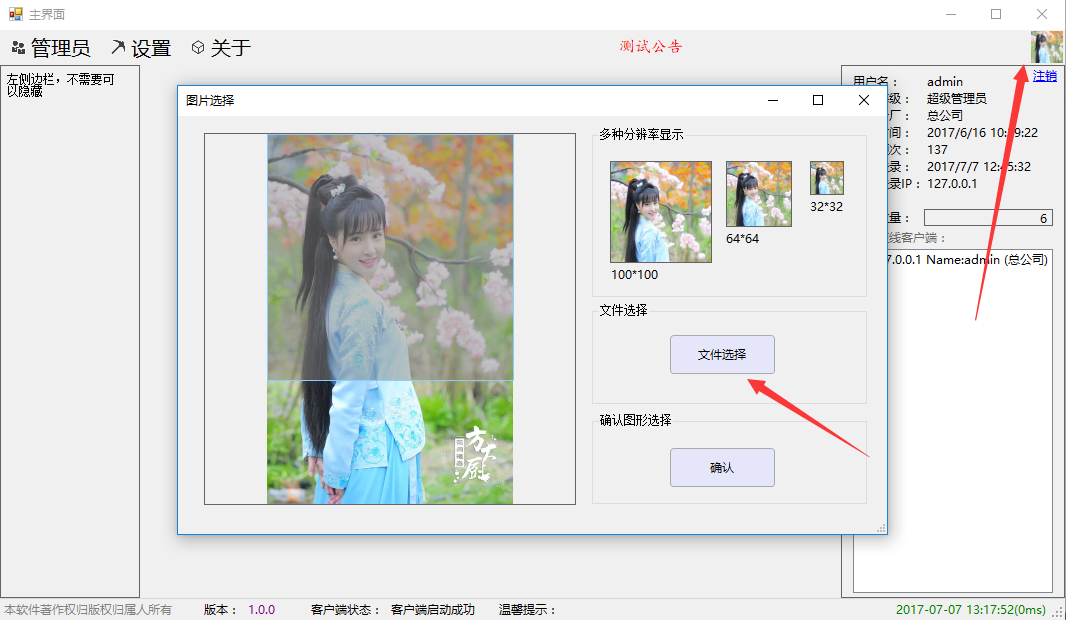
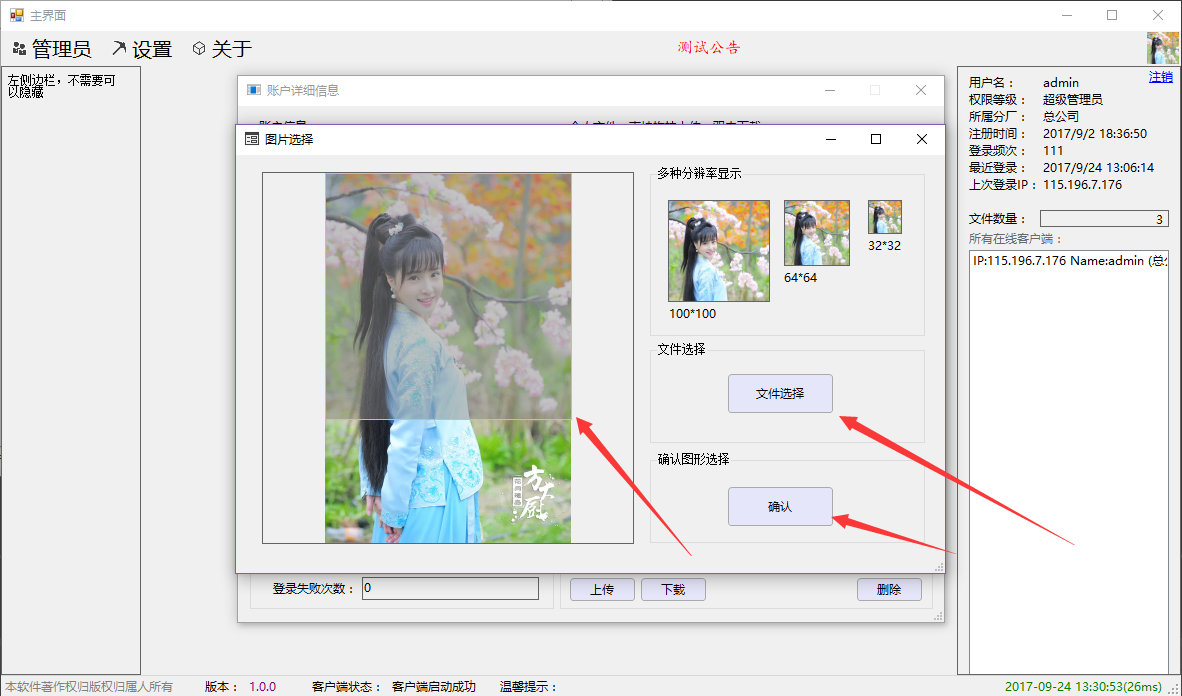
更新主ReadMe，和软件的部分截图，v1.4.7

diff --git a/README.md b/README.md
@@ -1,14 +1,16 @@
 # C-S架构的服务器客户端模版
 
 ## Summary
-一个基于中小型提炼的C-S开发框架，在大多数的一对多的系统设计中会包含一些常用的重复的功能代码，比如网络通信机制，客户端版本控制，账户控制管理，密码修改，公告管理等等，大多数的中小型系统只是需要到简单的权限管理即可。
+一个基于中小型提炼的C-S开发框架，在大多数的一对多的系统设计中会包含一些常用的重复的功能代码，比如网络通信机制，客户端版本控制，账户控制管理，密码修改，公告管理，服务器配置，各种常用窗口等等，而且大多数的中小型系统只是需要到简单的权限管理即可。
+
 <br />
-本框架包含了三种客户端的模式，第一种常用的winform客户端，第二种为wpf客户端，第三种为asp.net mvc模式，也就是说你可以在winform和wpf客户端上选择一种模式，然后您的系统提供一些功能到asp.net上去，所有的账户模型都是统一的，这样方便一些只需要查看报表用户的人员不需要在部署客户端了。当然，客户端可以提供更加强大的功能。
+本框架包含了三种客户端的模式，第一种常用的winform客户端，第二种为wpf客户端，第三种为asp.net mvc模式，也就是说你可以在winform和wpf客户端上选择一种模式，然后您的系统提供一些功能（诸如报表查看）到asp.net上去，所有的账户模型都是统一的，这样方便一些只需要查看报表用户的人员不需要在部署客户端了。当然，客户端可以提供更加强大的功能。
 
 
 ## Features included
 <ul>
 <li>一个简单的账户管理功能，包含了账户注册，密码修改，客户端登录账户记录,账户注销,账户包含了一些基础信息</li>
+<li>一个简单的客户端登录控制功能，可以手动控制允许哪些客户端进行登录，只需要打开窗口配置一下即可</li>
 <li>一个简单的公告管理功能，允许有权限的账户针对公告进行更改，未来将支持公告更改记录</li>
 <li>一个简单的意见反馈功能，允许客户端反馈软件的意见或是BUG，方便开发人员更改</li>
 <li>一个简单的右下角消息框弹出功能，在公告更改和新发消息的时候可以自由控制</li>
@@ -23,6 +25,7 @@
 <li>提供了一个文件共享平台，大多数的软件系统都会共享一些特殊的文件资料，允许方便的下载，管理，上传</li>
 <li>提供所有账户自身的头像功能，未来还将支持多账户同步</li>
 <li>提供一个简单的开发中心，允许客户端实时监视服务器程序的对象内存使用情况</li>
+<li>客户端提供了一个统一的配置中心，可以用来配置服务器各种参数。</li>
 </ul>
 <ul>
 <li>Wpf版本的客户端程序额外提供了一个主题颜色设置的功能</li>
@@ -62,6 +65,8 @@
 <li>多客户端之间需要进行复杂数据交互的系统</li>
 </ul>
 
+二次开发时需要特别注意的是在项目 **CommonLibrary** -> **ProtocolSupport** -> **CommonProtocol.cs** 中的参数需要根据实际全部修改，注意事项已在文件里说明。
+
 ## Contribute
 如果你也喜欢这个项目，可以点击右上角的star或是fork，如果发现了一些BUG或是需要更改的地方也可以直接发起pull request，当然也可以联系技术支持QQ群来联系我本人，或是发送邮件，具体参考下面。
 
@@ -79,29 +84,27 @@
 </ul>
 
 
-## HslCommunication.dll
-<p>该组件功能提供了一些基础功能类和整个C-S项目的核心网络的支持，除此之外，该组件提供了访问三菱PLC和西门子PLC的数据功能。以下就是该库的子功能说明，您也可以只使用其中一部分的功能类，比如日志功能！</p>
+## About HslCommunication.dll
+<p>本C-S项目的核心组件，该组件功能提供了一些基础功能类和整个C-S项目的网络支持，除此之外，该组件提供了访问三菱PLC和西门子PLC的数据功能。
+以下就是该库的部分子功能说明，您也可以只使用其中一部分的功能类，比如日志功能！完整的功能手册将在近期放出，方便理解整个系统的底层机制。</p>
 
 <ul>
-<li><a href="https://github.com/dathlin/C-S-/blob/master/files/LogReadme.md">简单强大的日志功能使用</a></li>
+<li><a href="https://github.com/dathlin/C-S-/blob/master/files/LogReadme.md">简单强大的日志记录功能使用</a></li>
+<li><a href="https://github.com/dathlin/C-S-/blob/master/files/MelsecReadMe.md">三菱PLC数据读写介绍</a></li>
+<li><a href="https://github.com/dathlin/C-S-/blob/master/files/SiemensReadMe.md">西门子PLC数据读写手册</a></li>
 </ul>
 
 
 <p>本组件支持常规的整数的数据读写，支持位数据读写，也支持字符串数据读写，包括中文，具体使用方式请参照下述手册，目前已经完成了一个三菱PLC高并发访问的类，具体交流可以通过以下方式联系我</p>
 
-<p>如果要使用本组件访问PLC，需要引用命名空间，如下</p>
+<p>如果要使用本组件的功能，需要引用命名空间，如下</p>
 <pre>
 <code>
-using HslCommunication.Profinet;
+using HslCommunication;
 </code>
 </pre>
 
-三菱详细手册：<a href="https://github.com/dathlin/C-S-/blob/master/MelsecReadMe.md">三菱PLC数据读写手册</a>
-
-西门子详细手册：<a href="https://github.com/dathlin/C-S-/blob/master/SiemensReadMe.md">西门子PLC数据读写手册</a>
-
 下载地址：<a href="https://github.com/dathlin/C-S-/raw/master/Public/HslCommunication.dll">单独的组件dll文件</a>
-
 文档地址：<a href="https://github.com/dathlin/C-S-/raw/master/Public/HslCommunication.xml">单独的组件xml注释文件</a>
 
 
@@ -221,9 +224,13 @@ using HslCommunication.Profinet;
 
 ![](https://github.com/dathlin/C-S-/raw/master/软件系统客户端模版/screenshots/client14.png)
 
-###### 修改账户的头像，门牌为【设备】-【更换头像】
+###### 修改账户的头像，门牌为【设置】-【我的信息】-点击头像
 
 ![](https://github.com/dathlin/C-S-/raw/master/软件系统客户端模版/screenshots/client15.png)
+
+###### 我的账户信息及个人文件，门牌为【设置】-【我的信息】
+
+![](https://github.com/dathlin/C-S-/raw/master/软件系统客户端模版/screenshots/client16.png)
 
 <br />
 
